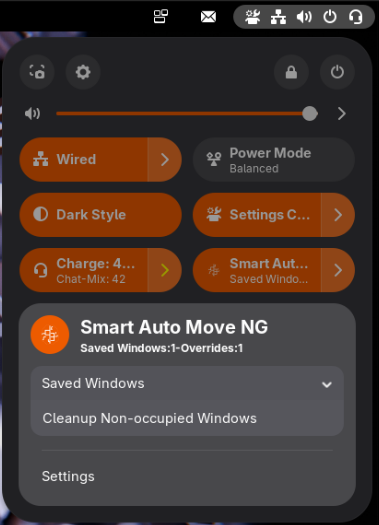
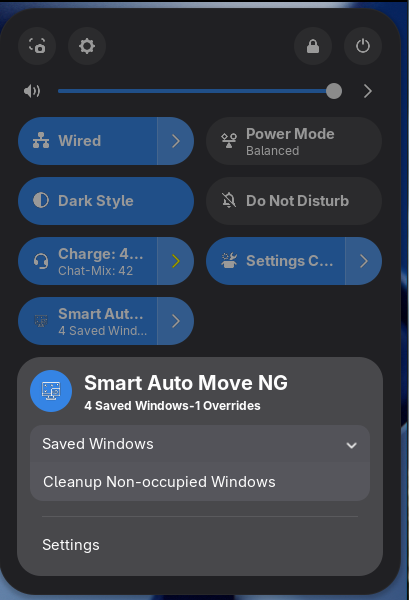
Updates to GNOME Shell 49 (#18)
* Updates to GNOME Shell 49

Updates the extension to be compatible with GNOME Shell 49.

Replaces deprecated `win.get_maximized()` with `win.is_maximized()`.

* Screenshot

Updates screenshot file in documentation.

* Fixes maximized window detection for GNOME 49+

Updates maximized window state detection to use `win.is_maximized()` on GNOME 49 and later, addressing a compatibility issue with the older `win.get_maximized()` method.

Also, this commit:
- Removes unused default settings variables from common.js.
- Updates supported GNOME Shell versions in metadata.json.

diff --git a/SmartAutoMoveNG@lauinger-clan.de/extension.js b/SmartAutoMoveNG@lauinger-clan.de/extension.js
@@ -12,10 +12,17 @@ import * as QuickSettings from "resource:///org/gnome/shell/ui/quickSettings.js"
 import * as Main from "resource:///org/gnome/shell/ui/main.js";
 import { PopupAnimation } from "resource:///org/gnome/shell/ui/boxpointer.js";
 import * as PopupMenu from "resource:///org/gnome/shell/ui/popupMenu.js";
+import { PACKAGE_VERSION } from "resource:///org/gnome/shell/misc/config.js";
 
 import * as Common from "./lib/common.js";
 
 const QuickSettingsMenu = Main.panel.statusArea.quickSettings;
+
+function isGnome49OrHigher() {
+    // GNOME Shell exports its version as a string, e.g. "49.0"
+    const majorVersion = parseInt(PACKAGE_VERSION.split(".")[0], 10);
+    return majorVersion >= 49;
+}
 
 //quick settings
 const SmartAutoMoveNGMenuToggle = GObject.registerClass(
@@ -96,7 +103,9 @@ export default class SmartAutoMoveNG extends Extension {
         this._activeWindows = new Map();
         this._settings = this.getSettings();
         this._indicator = new SmartAutoMoveNGIndicator(this);
-        this._initializeSettings();
+        this._overrides = {};
+        this._savedWindows = {};
+        this._handleChangedDebugLogging();
 
         this._debug("enable()");
         this._restoreSettings();
@@ -131,6 +140,8 @@ export default class SmartAutoMoveNG extends Extension {
             const id = this._settings.connect("changed::" + key, handler);
             this._settingSignals.push(id);
         }
+
+        this._isGnome49OrHigher = isGnome49OrHigher();
     }
 
     disable() {
@@ -153,6 +164,7 @@ export default class SmartAutoMoveNG extends Extension {
         this._activeWindows = null;
         this._indicator.destroy();
         this._indicator = null;
+        this._isGnome49OrHigher = null;
     }
 
     _openPreferences() {
@@ -192,23 +204,6 @@ export default class SmartAutoMoveNG extends Extension {
     }
 
     //// SETTINGS
-
-    _initializeSettings() {
-        this._debugLogging = Common.DEFAULT_DEBUG_LOGGING;
-        this._startupDelayMs = Common.DEFAULT_STARTUP_DELAY_MS;
-        this._syncFrequencyMs = Common.DEFAULT_SYNC_FREQUENCY_MS;
-        this._saveFrequencyMs = Common.DEFAULT_SAVE_FREQUENCY_MS;
-        this._matchThreshold = Common.DEFAULT_MATCH_THRESHOLD;
-        this._syncMode = Common.DEFAULT_SYNC_MODE;
-        this._freezeSaves = Common.DEFAULT_FREEZE_SAVES;
-        this._activateWorkspace = Common.DEFAULT_ACTIVATE_WORKSPACE;
-        this._ignorePosition = Common.DEFAULT_IGNORE_POSITION;
-        this._ignoreWorkspace = Common.DEFAULT_IGNORE_WORKSPACE;
-        this._overrides = {};
-        this._savedWindows = {};
-        this._handleChangedDebugLogging();
-    }
-
     _cleanupSettings() {
         this._settings = null;
         this._debugLogging = null;
@@ -285,7 +280,8 @@ export default class SmartAutoMoveNG extends Extension {
             //pid: win.get_pid(),
             //user_time: win.get_user_time(),
             workspace: win.get_workspace().index(),
-            maximized: win.get_maximized(),
+            // maximized: For GNOME 49+, only boolean is available. For older, bitmask.
+            maximized: this._isGnome49OrHigher ? win.is_maximized() : win.get_maximized(),
             fullscreen: win.is_fullscreen(),
             above: win.is_above(),
             monitor: win.get_monitor(),

diff --git a/SmartAutoMoveNG@lauinger-clan.de/lib/common.js b/SmartAutoMoveNG@lauinger-clan.de/lib/common.js
@@ -19,19 +19,6 @@ export const SETTINGS_KEY_OVERRIDES = "overrides";
 export const SYNC_MODE_IGNORE = 0;
 export const SYNC_MODE_RESTORE = 1;
 
-// default setting values (see also gschema xml)
-export const DEFAULT_DEBUG_LOGGING = false;
-export const DEFAULT_STARTUP_DELAY_MS = 2500;
-export const DEFAULT_SYNC_FREQUENCY_MS = 100;
-export const DEFAULT_SAVE_FREQUENCY_MS = 1000;
-export const DEFAULT_MATCH_THRESHOLD = 0.7;
-export const DEFAULT_SYNC_MODE = SYNC_MODE_RESTORE;
-export const DEFAULT_FREEZE_SAVES = false;
-export const DEFAULT_ACTIVATE_WORKSPACE = true;
-export const DEFAULT_IGNORE_POSITION = false;
-export const DEFAULT_IGNORE_WORKSPACE = false;
-export const DEFAULT_IGNORE_MONITOR = false;
-
 function levensteinDistance(a, b) {
     let m = [],
         i,
